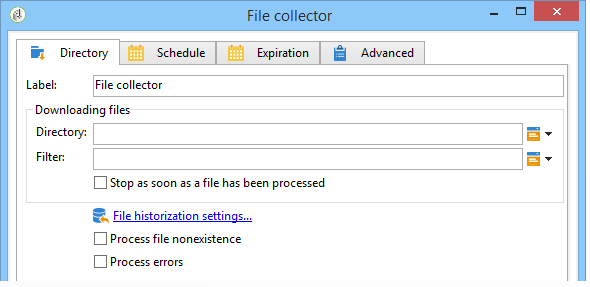
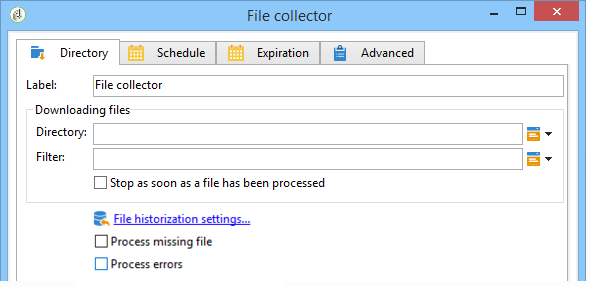
update for DOCAC-8114

Changed region(s): [[0.1525, 0.7247, 0.4271, 0.8641], [0.1525, 0.892, 0.3051, 0.9477]]

diff --git a/help/workflow/using/file-collector.md b/help/workflow/using/file-collector.md
@@ -46,13 +46,13 @@ The first tab of the **[!UICONTROL File collector]** activity lets you select th
 
    The following two options are available:
 
-    * **[!UICONTROL Process file nonexistence]**
+    * **[!UICONTROL Process missing file]**
 
       This option initiates a special transition each time no file matching the filter is found in the specified directory.
 
       If the task is not scheduled, this transition will be activated once only. 
     
-    * **[!UICONTROL Processing errors]**
+    * **[!UICONTROL Process errors]**
 
       This option makes a special transition appear, to be activated if an error is generated. In this case, the workflow does not change to error status, and continues execution
 
